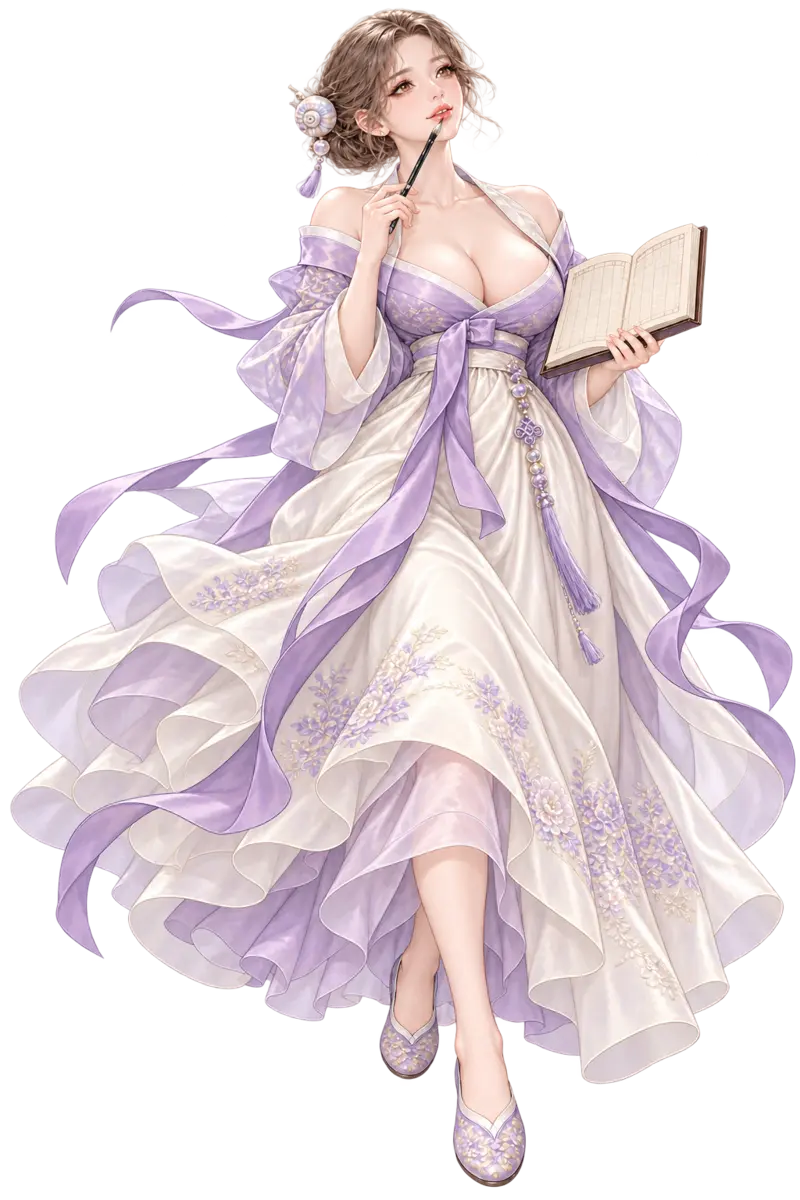
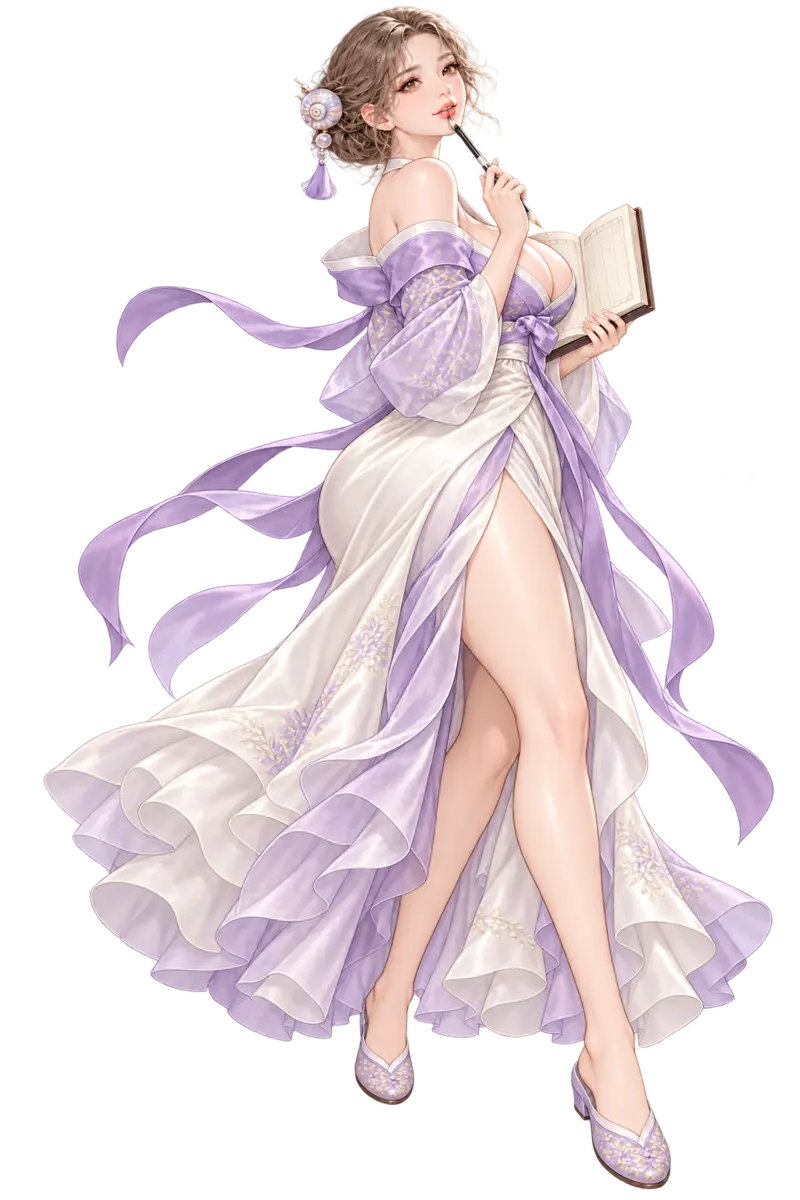
sample: 식객을 엉덩이·허벅지가 살아 있는 글래머 체형으로
- 무영: 뒤태로 돌아 방망이를 어깨에 멘 자세, 몸에 붙는 가죽 바지
- 소담: 엉덩이에 붙는 긴 치마와 트임, 허벅지가 드러나게
- 백설: 허리 아래 몸선과 허벅지를 더 살림(엉덩이는 치마로 덮음)
- 그림 프롬프트 공통 체형을 넓은 골반·탄탄한 허벅지로 바꿈

Claude-Session: https://claude.ai/code/session_01AG3ixGBdGKPAAzXvjh6L4F

diff --git a/src/data/art.ts b/src/data/art.ts
@@ -10,10 +10,10 @@ const STYLE =
 
 // 디자인 기준은 docs/CHARACTER_GUIDE.md. 체형은 공통, 옷과 자세는 식객마다 다르게(subject에 적는다).
 const HEROINE =
-  'The character is clearly an adult woman in her late twenties, very beautiful and glamorous, with a small pretty face, large expressive eyes and glossy lips, ' +
-  'a glamorous hourglass figure with a large full bust, a very slim waist, curvy hips and long slender legs. ' +
-  'Her outfit and pose follow the subject description and express her personality. ' +
-  'Alluring but tasteful and non-explicit: no nudity, no underwear visible.';
+  'The character is clearly an adult woman in her late twenties, very beautiful and glamorous, with a mature pretty face, large expressive eyes and glossy lips, ' +
+  'a voluptuous hourglass figure: large bust, narrow waist, wide curvy hips and full, shapely, healthy thighs (not skinny legs), in the style of high-end Korean gacha game character art. ' +
+  'Her fitted outfit shows the curves of her figure; her outfit and pose follow the subject description and express her personality. ' +
+  'Alluring but tasteful and non-explicit: clothing covers the hips and chest, no nudity, no underwear visible.';
 
 const FRAME = {
   full: `${HEROINE} Full body, her signature pose. Isolated on a fully transparent background (PNG with alpha), no scenery, no floor, no shadow.`,
